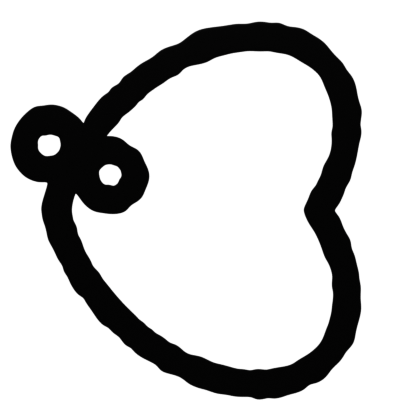
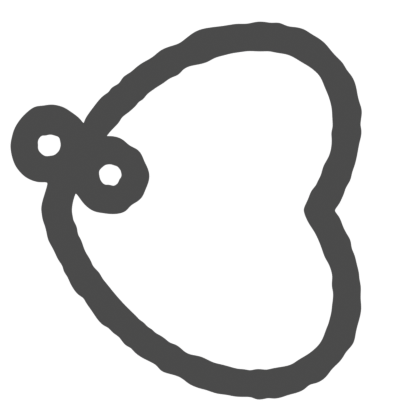
add dark mode

Changed region(s): [[0.0, 0.031, 0.8667, 0.9595]]

diff --git a/style.css b/style.css
@@ -148,6 +148,43 @@ a:active {
     text-decoration: none;
 }
 
+@media (prefers-color-scheme: dark) {
+    body {
+        color: #f8e6d3;
+        background-color: #4a4a4a;
+    }
+    input[type=tel] {
+        color: #f8e6d3;
+        background-color: #4a4a4a;
+        border-color: #f8e6d3;
+    }
+    input:focus {
+        color: #89c7cd;
+        border-color: #89c7cd;
+    }
+    input:focus:invalid {
+        color: #ed7c7c;
+        border-color: #ed7c7c;
+    }
+    input:invalid {
+        color: #cd5c5c;
+        border-color: #cd5c5c;
+    }
+
+    a, a:link, a:visited { color: #f8e6d3; }
+    a:hover, a:focus { color: #89c7cd; }
+    a:active { color: #f8e6d3; }
+    #jump, #butt {
+        color: #f8e6d3;
+        background-color: #4a4a4a;
+        border-color: #f8e6d3;
+    }
+    #jump:focus {
+        color: #89c7cd;
+        border-color: #89c7cd;
+    }
+}
+
 @media (min-width: 662px) {
     body { width: 600px; }
     #butt { bottom: 30px }
@@ -160,6 +197,16 @@ a:active {
         border-color: #4a4a4a;
     }
 }
+@media (min-width: 662px) and (prefers-color-scheme: dark) {
+    #jump:hover, #butt:hover {
+        color: #89c7cd;
+        border-color: #89c7cd;
+    }
+    #jump:active, #butt:active {
+        color: #f8e6d3;
+        border-color: #f8e6d3;
+    }
+}
 @media (max-width: 662px) {
     body { width: 90%; }
     img { max-width: 100%; height: auto; }
@@ -169,6 +216,13 @@ a:active {
         border-color: #4a4a4a;
     }
 }
+@media (max-width: 662px) and (prefers-color-scheme: dark) {
+    #jump:hover, #butt:hover, #jump:active, #butt:active {
+        color: #f8e6d3;
+        border-color: #f8e6d3;
+    }
+}
+
 @media print { a, a:focus { color: #4a4a4a; } }
 #endspace { height: 100vh; }
 

diff --git a/anim.js b/anim.js
@@ -543,6 +543,22 @@ document.onkeydown = function(event) {
     }
 };
 
+function toggleDarkMode() {
+    const dark = window.matchMedia('(prefers-color-scheme: dark)').matches;
+    if (dark) {
+        logoElem.src = 'vis/jurgfishdarkmode.png';
+        logoTxtElem.src = 'vis/jurgfishtxtdarkmode.png';
+    } else {
+        logoElem.src = 'vis/jurgfish.png';
+        logoTxtElem.src = 'vis/jurgfishtxt.png';
+    }
+}
+if (window.matchMedia) {
+    const darkQuery = window.matchMedia('(prefers-color-scheme: dark)');
+    darkQuery.addEventListener('change', toggleDarkMode);
+    toggleDarkMode();
+}
+
 ////////////////////////////////////////////////////////////////////////////
 
 // begin routine

diff --git a/index.html b/index.html
@@ -16,7 +16,6 @@
         <link rel="manifest" href="site.webmanifest">
         <link rel="mask-icon" href="safari-pinned-tab.svg" color="#18919c">
         <meta name="msapplication-TileColor" content="#f8e6d3">
-        <meta name="theme-color" content="#f8e6d3">
         <title>jurgfish</title>
     </head>
     
